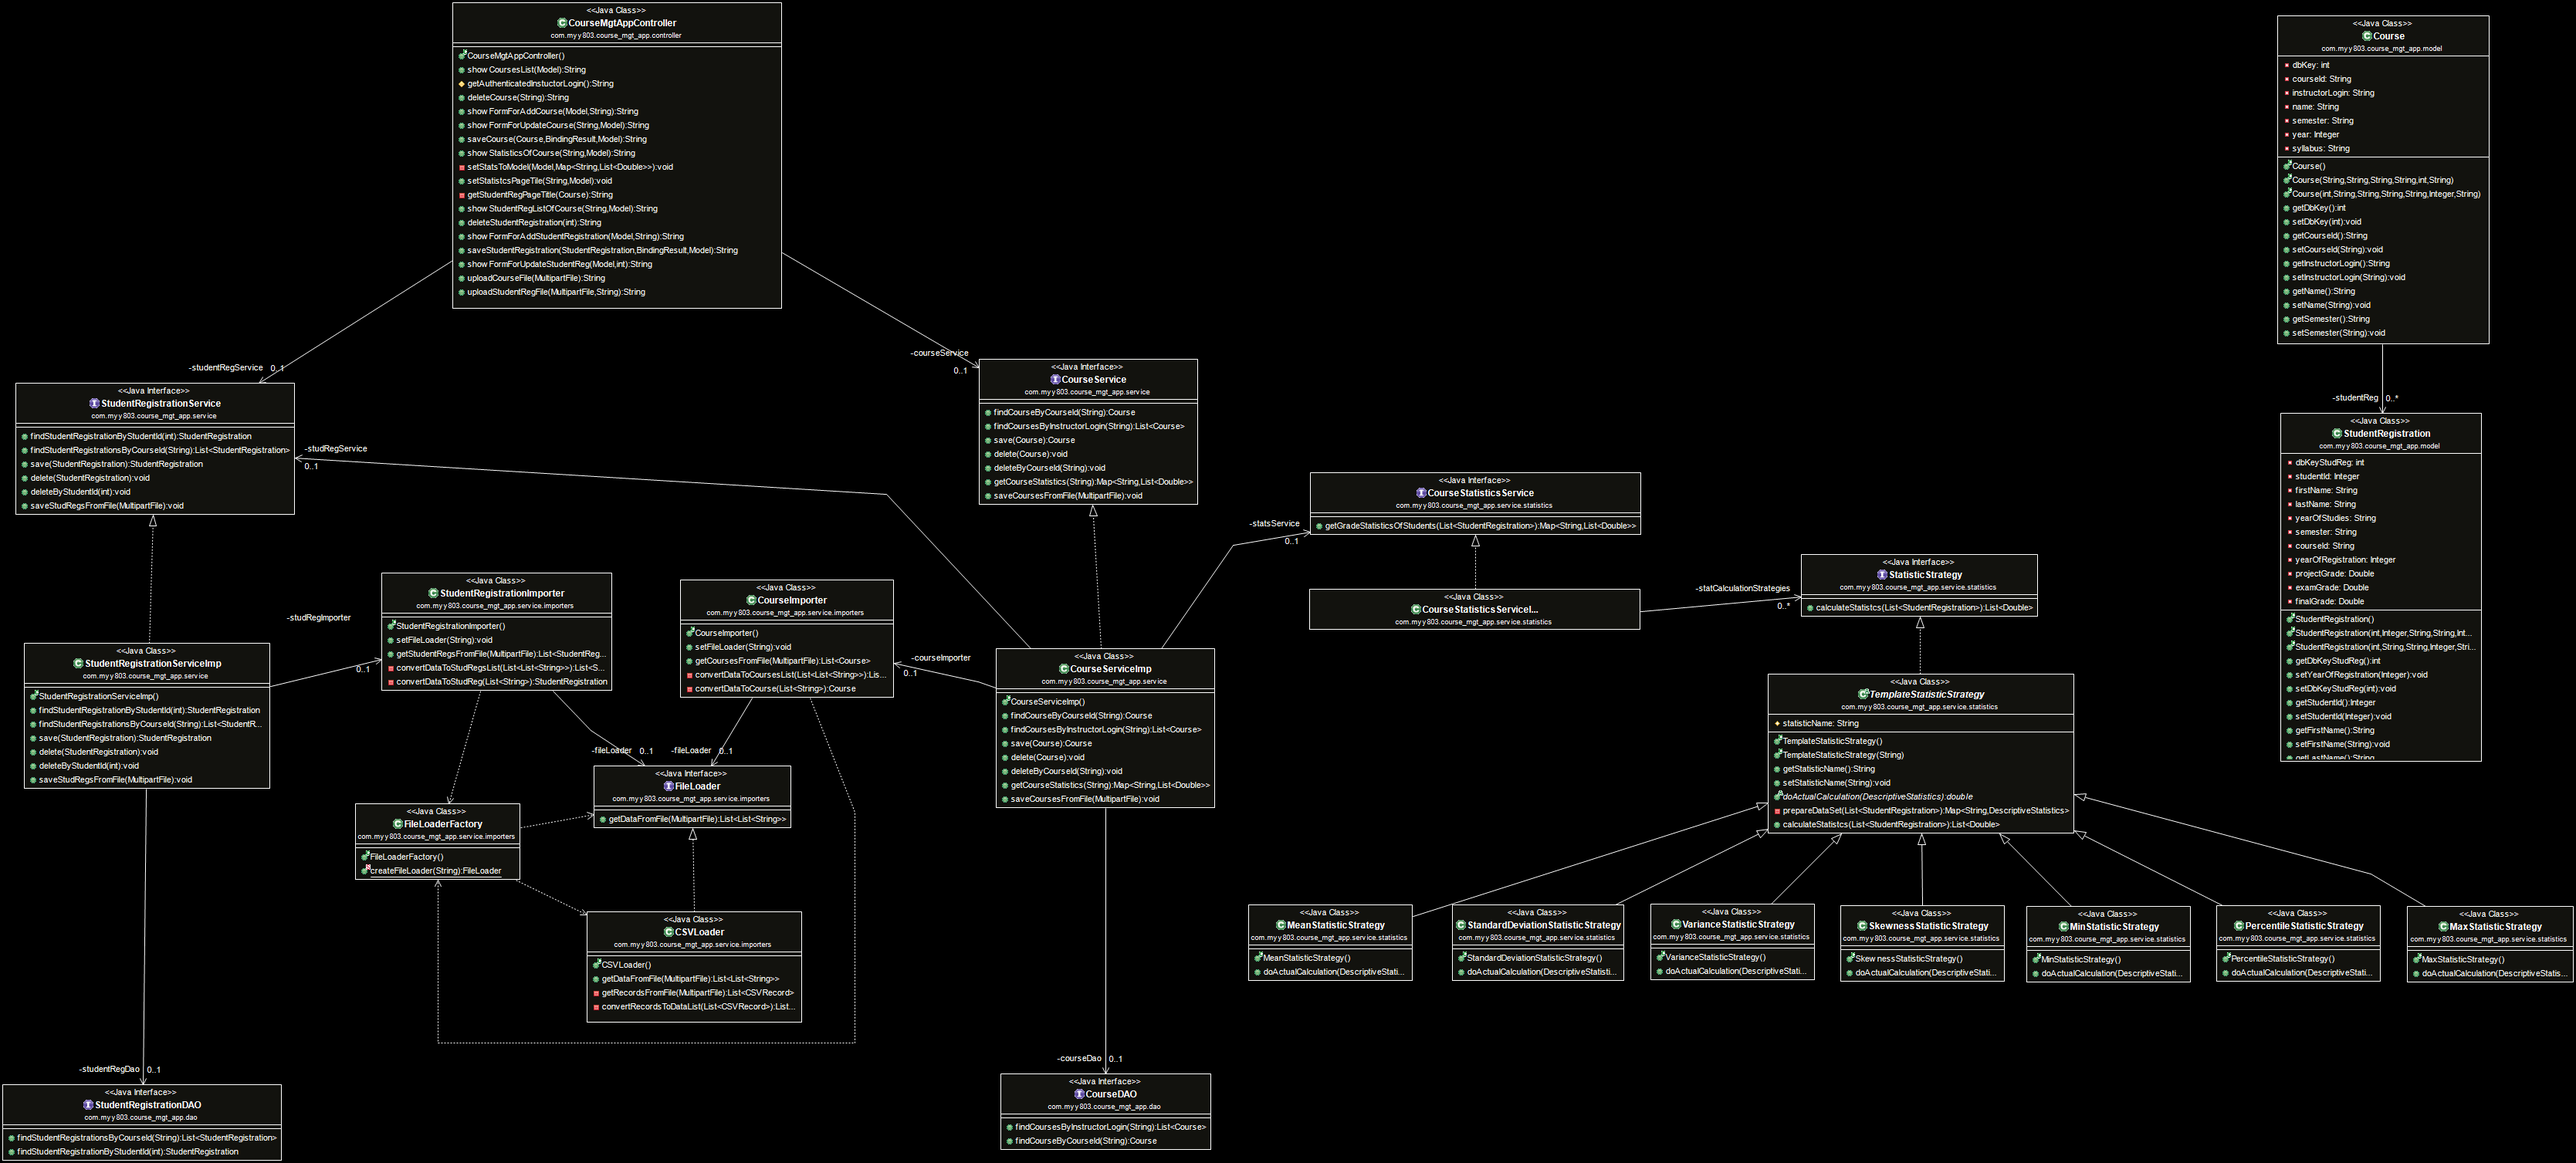
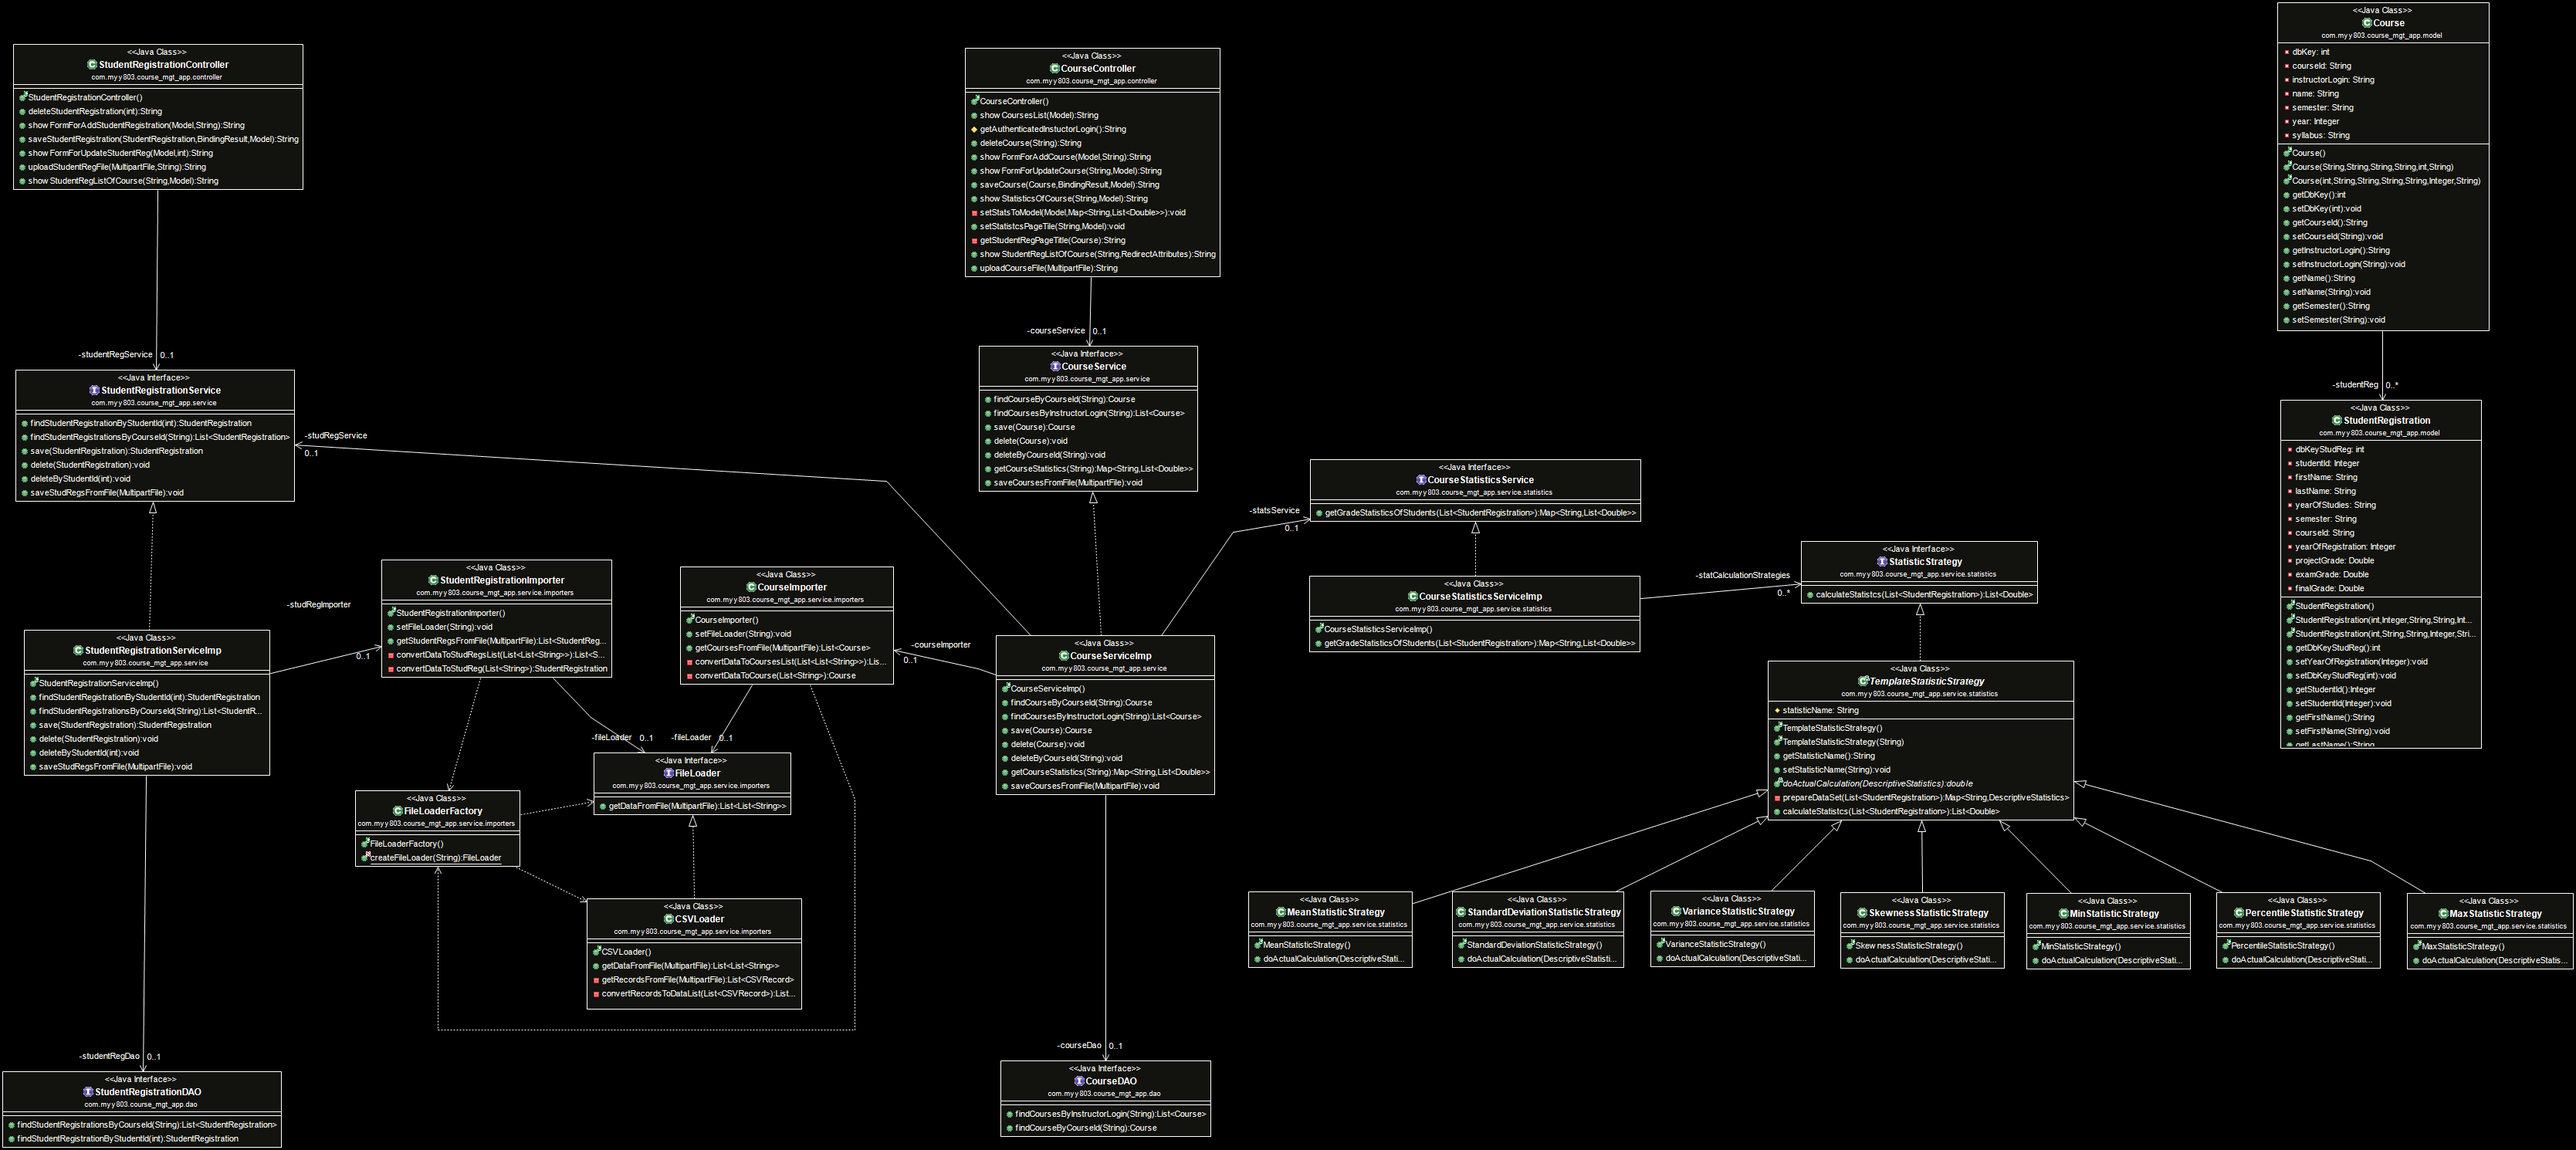
Separated CourseMgtController into Course and StudentRegs controllers
- Because CourseMgtController had many responsibilities, I separated it
into two different controllers, each of which handles requests about a
single domain model object.

diff --git a/src/main/resources/templates/studentRegistration/list-studentRegistrations.html b/src/main/resources/templates/studentRegistration/list-studentRegistrations.html
@@ -82,7 +82,7 @@
 	
 	<hr>
 	
-	<form method="POST" th:action="@{/studentReg/upload(courseId=${courseId})}" enctype="multipart/form-data">
+	<form method="POST" th:action="@{/studentRegistrations/upload(courseId=${courseId})}" enctype="multipart/form-data">
     <div class="form-group mt-3" onclick="if (!(confirm('The first line of the csv file must be: AM, First Name, Last Name,Year of Registration, Year of Studies, Semester, Project Grade, Exam Grade'))) return false">
         <label for="file">Select a CSV file</label>
         <input type="file" name="file" class="form-control-file" id="file" accept=".csv">

diff --git a/src/main/resources/templates/courses/list-courses.html b/src/main/resources/templates/courses/list-courses.html
@@ -89,7 +89,7 @@
 	
 	<hr>
 	
-	<form method="POST" th:action="@{/upload}" enctype="multipart/form-data">
+	<form method="POST" th:action="@{/courses/upload}" enctype="multipart/form-data">
      
     <div class="form-group mt-3" onclick="if (!(confirm('The first line of the csv file must be: Id,Name,Semester,Year,Syllabus'))) return false">
         <label for="file">Select a CSV file</label>

diff --git a/src/main/java/com/myy803/course_mgt_app/controller/CourseController.java b/src/main/java/com/myy803/course_mgt_app/controller/CourseController.java
@@ -4,32 +4,33 @@ import java.io.IOException;
 import java.util.HashMap;
 import java.util.List;
 import java.util.Map;
+
 import javax.validation.Valid;
+
 import org.springframework.beans.factory.annotation.Autowired;
 import org.springframework.security.core.context.SecurityContextHolder;
 import org.springframework.stereotype.Controller;
 import org.springframework.ui.Model;
 import org.springframework.validation.BindingResult;
+import org.springframework.web.bind.annotation.GetMapping;
 import org.springframework.web.bind.annotation.ModelAttribute;
 import org.springframework.web.bind.annotation.PostMapping;
 import org.springframework.web.bind.annotation.RequestMapping;
 import org.springframework.web.bind.annotation.RequestParam;
 import org.springframework.web.multipart.MultipartFile;
+import org.springframework.web.servlet.mvc.support.RedirectAttributes;
+
 import com.myy803.course_mgt_app.model.Course;
-import com.myy803.course_mgt_app.model.StudentRegistration;
 import com.myy803.course_mgt_app.service.CourseService;
-import com.myy803.course_mgt_app.service.StudentRegistrationService;
 
 @Controller
-public class CourseMgtAppController {
+@RequestMapping("/courses")
+public class CourseController {
 
 	@Autowired
 	private CourseService courseService;
-
-	@Autowired
-	private StudentRegistrationService studentRegService;
 	
-	@RequestMapping("/courses/list")
+	@GetMapping("/list")
 	public String showCoursesList(Model model) {
 		String insturctorLoginField = getAuthenticatedInstuctorLogin();
 		List<Course> coursesList = courseService.findCoursesByInstructorLogin(insturctorLoginField);
@@ -42,21 +43,15 @@ public class CourseMgtAppController {
 		return SecurityContextHolder.getContext().getAuthentication().getName();
 	}
 
-	@RequestMapping("/courses/deleteCourse")
-	public String deleteCourse(@RequestParam("courseId") String courseId) {
-		courseService.deleteByCourseId(courseId);
-		return "redirect:/courses/list";
-	}
-
-	@RequestMapping("/courses/showFormForAddCourse")
+	@GetMapping("/showFormForAddCourse")
 	public String showFormForAddCourse(Model model, @RequestParam("instructorLogin") String instructorLogin) {
 		Course course = new Course();
 		model.addAttribute("course", course);
 		model.addAttribute("instructorLogin", instructorLogin);
 		return "courses/course-form";
 	}
-
-	@RequestMapping("/courses/showFormForUpdateCourse")
+	
+	@GetMapping("/showFormForUpdateCourse")
 	public String showFormForUpdateCourse(@RequestParam("courseId") String courseId, Model model) {
 		Course course = courseService.findCourseByCourseId(courseId);
 		model.addAttribute("course", course);
@@ -64,8 +59,8 @@ public class CourseMgtAppController {
 		model.addAttribute("instructorLogin", instructorLogin);
 		return "courses/course-form";
 	}
-
-	@RequestMapping("/courses/save")
+	
+	@PostMapping("/save")
 	public String saveCourse(@Valid @ModelAttribute(value = "course") Course course, BindingResult result,
 			Model model) {
 		if (result.hasErrors()) {
@@ -77,8 +72,15 @@ public class CourseMgtAppController {
 		courseService.save(course);
 		return "redirect:/courses/list";
 	}
+	
+	@RequestMapping("/deleteCourse")
+	public String deleteCourse(@RequestParam("courseId") String courseId) {
+		courseService.deleteByCourseId(courseId);
+		return "redirect:/courses/list";
+	}
 
-	@RequestMapping("/courses/showStatisticsOfCourse")
+
+	@GetMapping("/showStatisticsOfCourse")
 	public String showStatisticsOfCourse(@RequestParam("courseId") String courseId, Model model) {
 		setStatistcsPageTile(courseId, model);
 		Map<String, List<Double>> statsMap = courseService.getCourseStatistics(courseId);
@@ -121,70 +123,16 @@ public class CourseMgtAppController {
 		return course.getCourseId() + " " + course.getName();
 	}
 
-	@RequestMapping("/courses/showStudentRegListOfCourse")
-	public String showStudentRegListOfCourse(@RequestParam("courseId") String courseId, Model model) {
-		Course theCourse = courseService.findCourseByCourseId(courseId);
-		model.addAttribute("studRegTitle", getStudentRegPageTitle(theCourse));
-		model.addAttribute("courseId", courseId);
-		model.addAttribute("studRegList", studentRegService
-				.findStudentRegistrationsByCourseId(courseId));
-		return "/studentRegistration/list-studentRegistrations";
+	@GetMapping("/showStudentRegListOfCourse")
+	public String showStudentRegListOfCourse(@RequestParam("courseId") String courseId, RedirectAttributes redirectAttributes) {
+		Course course = courseService.findCourseByCourseId(courseId);
+		redirectAttributes.addFlashAttribute("studRegTitle", getStudentRegPageTitle(course));
+		return "redirect:/studentRegistrations?courseId=" + courseId;
 	}
-
-	@RequestMapping("/studentRegistrations/deleteStudentReg")
-	public String deleteStudentRegistration(@RequestParam("studentRegId") int studRegId) {
-		String cId = studentRegService.findStudentRegistrationByStudentId(studRegId).getCourseId();
-		studentRegService.deleteByStudentId(studRegId);
-		return "redirect:/courses/showStudentRegListOfCourse?courseId=" + cId;
-	}
-
-	@RequestMapping("/studentRegistrations/showFormForAddStudentReg")
-	public String showFormForAddStudentRegistration(Model model, @RequestParam("courseId") String courseId) {
-		StudentRegistration theStudentReg = new StudentRegistration();
-		theStudentReg.setCourseId(courseId);
-		model.addAttribute("studentReg", theStudentReg);
-		model.addAttribute("courseId", courseId);
-		return "/studentRegistration/studentReg-form";
-	}
-
-	@RequestMapping("/studentRegistrations/save")
-	public String saveStudentRegistration(@Valid @ModelAttribute("studentReg") StudentRegistration studentReg,
-			BindingResult result, Model model) {
-		if (result.hasErrors()) {
-			model.addAttribute("studentReg", studentReg);
-			String courseId = studentReg.getCourseId();
-			model.addAttribute("courseId", courseId);
-			return "/studentRegistration/studentReg-form";
-		}
-		// used for testing
-		StudentRegistration savedStudReg = studentRegService.save(studentReg);
-		model.addAttribute("savedStudReg", savedStudReg);
-		return "redirect:/courses/showStudentRegListOfCourse?courseId="
-				+ studentReg.getCourseId();
-
-	}
-
-	@RequestMapping("/studentRegistrations/showFormForUpdateStudentReg")
-	public String showFormForUpdateStudentReg(Model model, @RequestParam("studentRegId") int studRegId) {
-		StudentRegistration theStudentReg = studentRegService.findStudentRegistrationByStudentId(studRegId);
-		model.addAttribute("studentReg", theStudentReg);
-		// used for link back to Course MYY-xxx in the update page
-		String courseId = theStudentReg.getCourseId();
-		model.addAttribute("courseId", courseId);
-		return "/studentRegistration/studentReg-form";
-	}
-
-	@PostMapping("/courses/upload")
+	
+	@PostMapping("/upload")
 	public String uploadCourseFile(@RequestParam("file") MultipartFile file) throws IOException {
 		courseService.saveCoursesFromFile(file);
 		return "redirect:/courses/list";
 	}
-
-	@PostMapping("/studentReg/upload")
-	public String uploadStudentRegFile(@RequestParam("file") MultipartFile file,
-			@RequestParam("courseId") String courseId) throws IOException {
-		studentRegService.saveStudRegsFromFile(file);
-		return "redirect:/courses/showStudentRegListOfCourse?courseId=" + courseId;
-	}
-
 }

diff --git a/src/main/java/com/myy803/course_mgt_app/controller/StudentRegistrationController.java b/src/main/java/com/myy803/course_mgt_app/controller/StudentRegistrationController.java
@@ -1,0 +1,89 @@
+package com.myy803.course_mgt_app.controller;
+
+import java.io.IOException;
+
+import javax.validation.Valid;
+
+import org.springframework.beans.factory.annotation.Autowired;
+import org.springframework.stereotype.Controller;
+import org.springframework.ui.Model;
+import org.springframework.validation.BindingResult;
+import org.springframework.web.bind.annotation.GetMapping;
+import org.springframework.web.bind.annotation.ModelAttribute;
+import org.springframework.web.bind.annotation.PostMapping;
+import org.springframework.web.bind.annotation.RequestMapping;
+import org.springframework.web.bind.annotation.RequestParam;
+import org.springframework.web.multipart.MultipartFile;
+
+import com.myy803.course_mgt_app.model.StudentRegistration;
+import com.myy803.course_mgt_app.service.StudentRegistrationService;
+
+
+@Controller
+@RequestMapping("/studentRegistrations")
+public class StudentRegistrationController {
+	
+	@Autowired
+	private StudentRegistrationService studentRegService;
+	
+	@GetMapping()
+	public String showStudentRegListOfCourse(@RequestParam("courseId") String courseId, Model model) {
+		String studRegTitle = (String) model.asMap().get("studRegTitle");
+		model.addAttribute("studRegTitle", studRegTitle);
+		model.addAttribute("courseId", courseId);
+		model.addAttribute("studRegList", studentRegService.findStudentRegistrationsByCourseId(courseId));
+		return "/studentRegistration/list-studentRegistrations";
+	}
+	
+
+	@GetMapping("/showFormForAddStudentReg")
+	public String showFormForAddStudentRegistration(Model model, @RequestParam("courseId") String courseId) {
+		StudentRegistration theStudentReg = new StudentRegistration();
+		theStudentReg.setCourseId(courseId);
+		model.addAttribute("studentReg", theStudentReg);
+		model.addAttribute("courseId", courseId);
+		return "/studentRegistration/studentReg-form";
+	}
+	
+	@GetMapping("/showFormForUpdateStudentReg")
+	public String showFormForUpdateStudentReg(Model model, @RequestParam("studentRegId") int studRegId) {
+		StudentRegistration theStudentReg = studentRegService.findStudentRegistrationByStudentId(studRegId);
+		model.addAttribute("studentReg", theStudentReg);
+		// used for link back to Course MYY-xxx in the update page
+		String courseId = theStudentReg.getCourseId();
+		model.addAttribute("courseId", courseId);
+		return "/studentRegistration/studentReg-form";
+	}
+
+	@PostMapping("/save")
+	public String saveStudentRegistration(@Valid @ModelAttribute("studentReg") StudentRegistration studentReg,
+			BindingResult result, Model model) {
+		if (result.hasErrors()) {
+			model.addAttribute("studentReg", studentReg);
+			String courseId = studentReg.getCourseId();
+			model.addAttribute("courseId", courseId);
+			return "/studentRegistration/studentReg-form";
+		}
+		// used for testing
+		StudentRegistration savedStudReg = studentRegService.save(studentReg);
+		model.addAttribute("savedStudReg", savedStudReg);
+		return "redirect:/courses/showStudentRegListOfCourse?courseId="
+				+ studentReg.getCourseId();
+
+	}
+	
+	@RequestMapping("/deleteStudentReg")
+	public String deleteStudentRegistration(@RequestParam("studentRegId") int studRegId) {
+		String cId = studentRegService.findStudentRegistrationByStudentId(studRegId).getCourseId();
+		studentRegService.deleteByStudentId(studRegId);
+		return "redirect:/courses/showStudentRegListOfCourse?courseId=" + cId;
+	}
+	
+	@PostMapping("/upload")
+	public String uploadStudentRegFile(@RequestParam("file") MultipartFile file,
+			@RequestParam("courseId") String courseId) throws IOException {
+		studentRegService.saveStudRegsFromFile(file);
+		return "redirect:/courses/showStudentRegListOfCourse?courseId=" + courseId;
+	}
+	
+}
